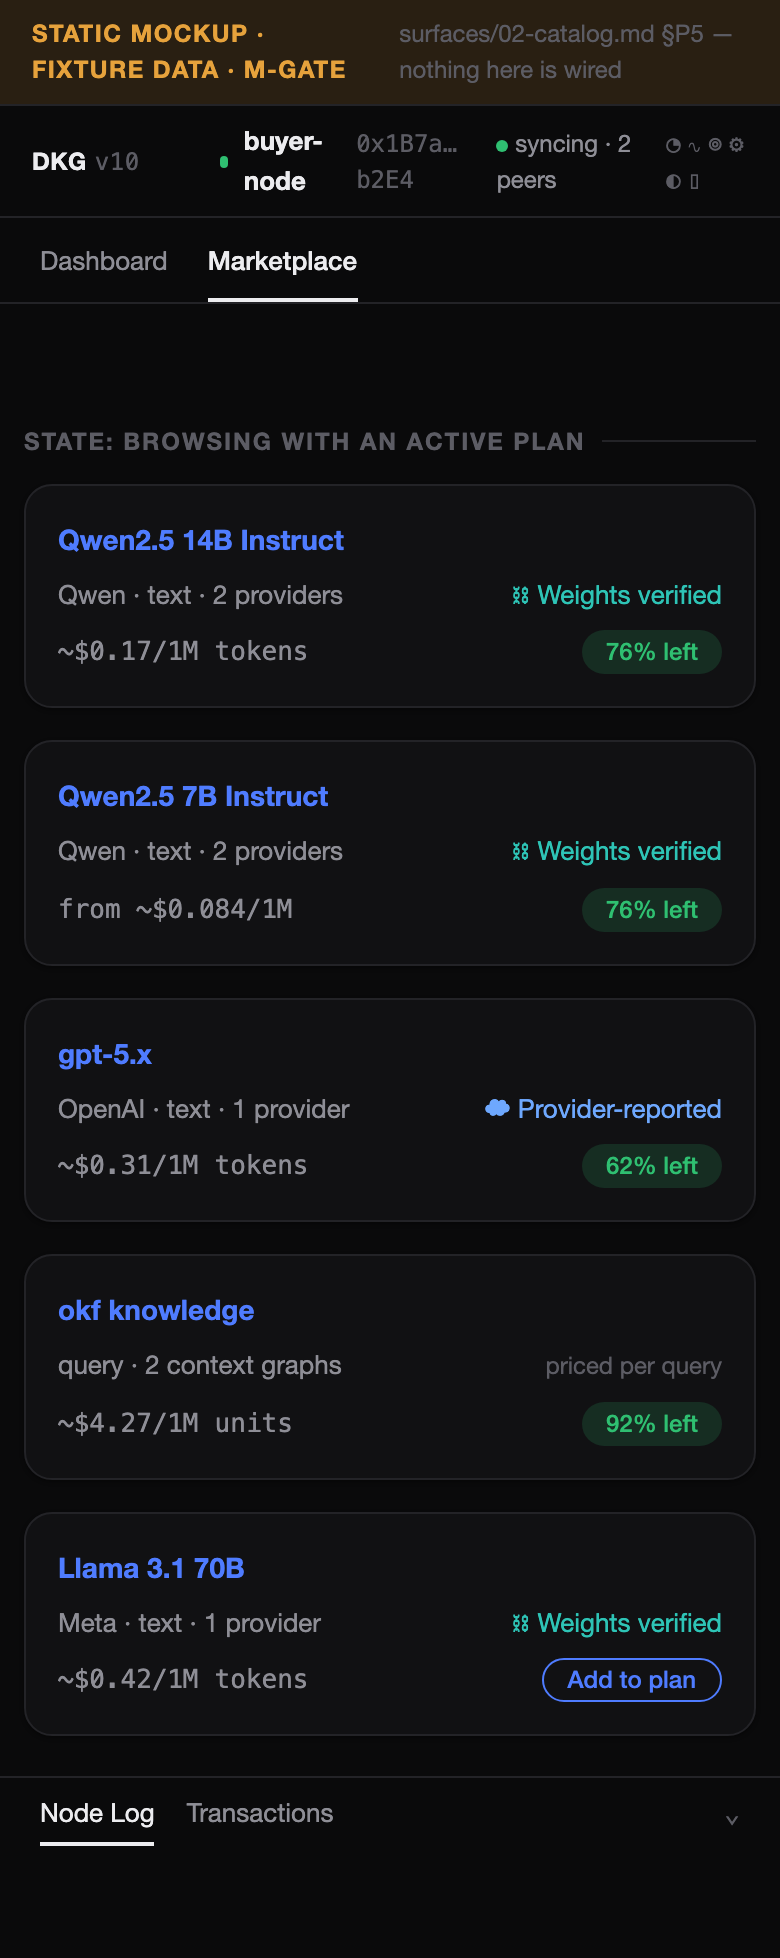
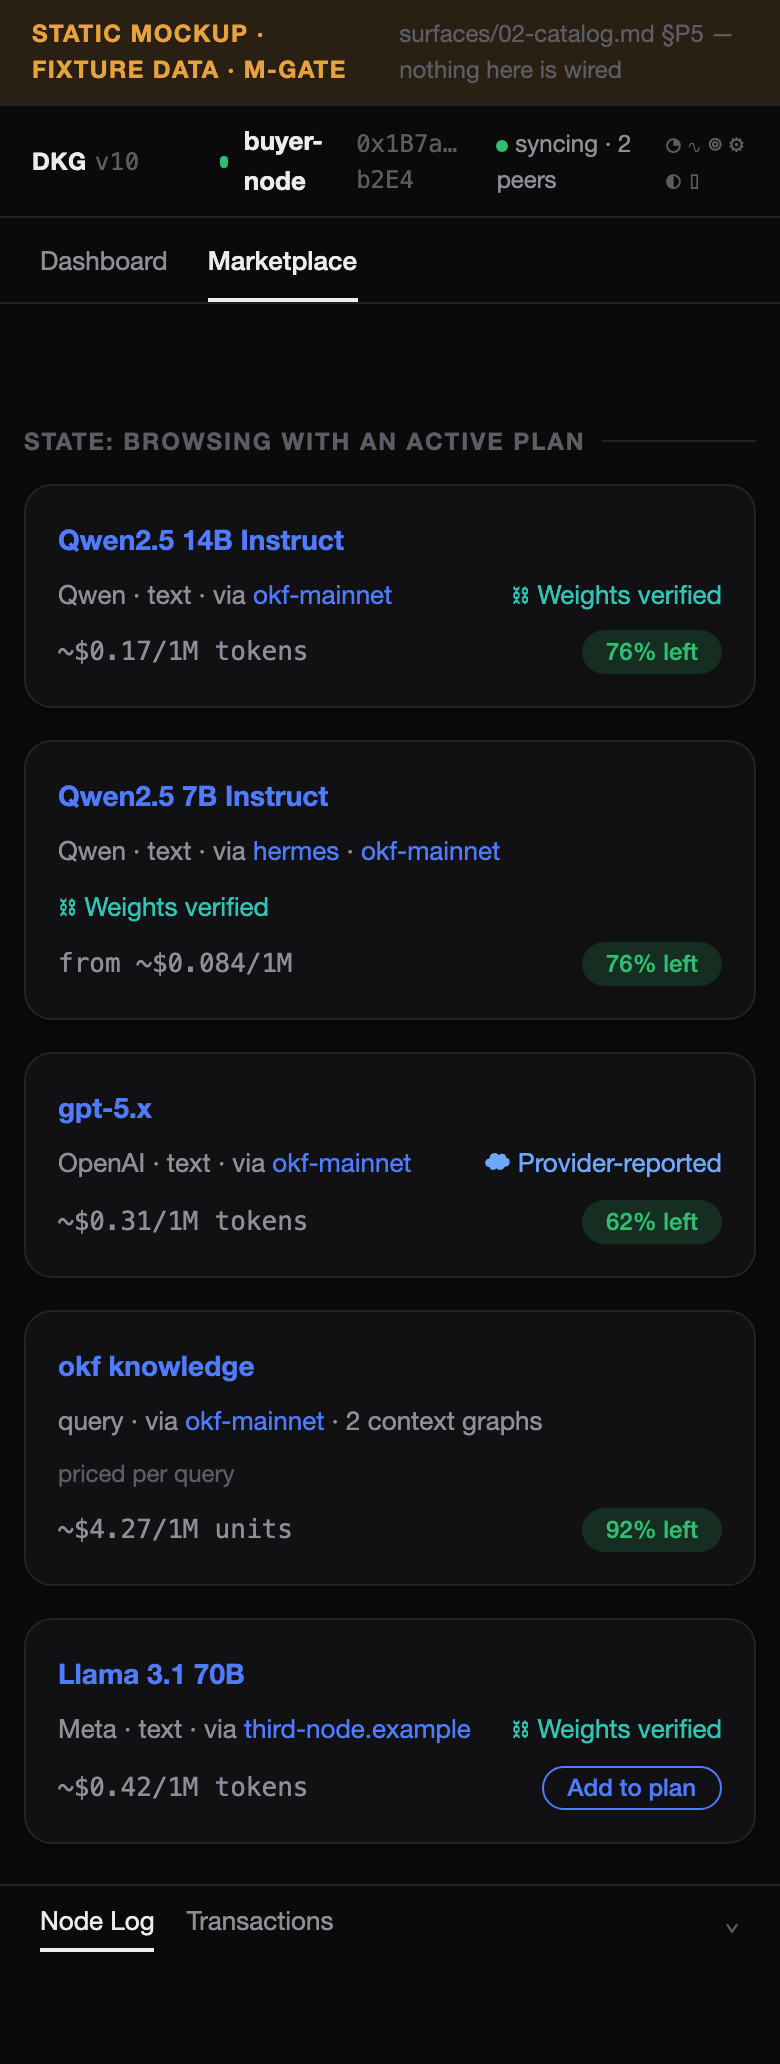
P5 CP-R round 8: catalog cards name their serving node(s), linked to storefronts
Claude-Session: https://claude.ai/code/session_01JiTT3xcuesA55AyqxVU4c1

diff --git a/docs/ui-spec/mockups/p5/03-catalog-subscribed.html b/docs/ui-spec/mockups/p5/03-catalog-subscribed.html
@@ -36,19 +36,19 @@
   <div class="state-label">state: browsing with an active plan</div>
   <div class="grid">
     <div class="card mcard"><h3><a href="04-model-page-covered.html">Qwen2.5 14B Instruct</a></h3>
-      <div class="row"><span class="sec">Qwen · text · 2 providers</span><span style="color:var(--prov-pinned)">⛓ Weights verified</span></div>
+      <div class="row"><span class="sec">Qwen · text · via <a href="07-storefront.html">okf-mainnet</a></span><span style="color:var(--prov-pinned)">⛓ Weights verified</span></div>
       <div class="row"><span class="mono sec">~$0.17/1M tokens</span><a class="chip chip--allow" href="05-plans-meters.html">76% left</a></div></div>
     <div class="card mcard"><h3><a href="04-model-page-covered.html">Qwen2.5 7B Instruct</a></h3>
-      <div class="row"><span class="sec">Qwen · text · 2 providers</span><span style="color:var(--prov-pinned)">⛓ Weights verified</span></div>
+      <div class="row"><span class="sec">Qwen · text · via <a href="07-storefront.html">hermes</a> · <a href="07-storefront.html">okf-mainnet</a></span><span style="color:var(--prov-pinned)">⛓ Weights verified</span></div>
       <div class="row"><span class="mono sec">from ~$0.084/1M</span><a class="chip chip--allow" href="05-plans-meters.html">76% left</a></div></div>
     <div class="card mcard"><h3><a href="04-model-page-covered.html">gpt-5.x</a></h3>
-      <div class="row"><span class="sec">OpenAI · text · 1 provider</span><span style="color:var(--prov-claimed)">☁ Provider-reported</span></div>
+      <div class="row"><span class="sec">OpenAI · text · via <a href="07-storefront.html">okf-mainnet</a></span><span style="color:var(--prov-claimed)">☁ Provider-reported</span></div>
       <div class="row"><span class="mono sec">~$0.31/1M tokens</span><a class="chip chip--allow" href="05-plans-meters.html">62% left</a></div></div>
     <div class="card mcard"><h3><a href="07-storefront.html">okf knowledge</a></h3>
-      <div class="row"><span class="sec">query · 2 context graphs</span><span class="muted xs">priced per query</span></div>
+      <div class="row"><span class="sec">query · via <a href="07-storefront.html">okf-mainnet</a> · 2 context graphs</span><span class="muted xs">priced per query</span></div>
       <div class="row"><span class="mono sec">~$4.27/1M units</span><a class="chip chip--allow" href="05-plans-meters.html">92% left</a></div></div>
     <div class="card mcard"><h3><a href="04-model-page-covered.html">Llama 3.1 70B</a></h3>
-      <div class="row"><span class="sec">Meta · text · 1 provider</span><span style="color:var(--prov-pinned)">⛓ Weights verified</span></div>
+      <div class="row"><span class="sec">Meta · text · via <a href="07-storefront.html">third-node.example</a></span><span style="color:var(--prov-pinned)">⛓ Weights verified</span></div>
       <div class="row"><span class="mono sec">~$0.42/1M tokens</span><a class="chip chip--add" href="02-plan-composer.html">Add to plan</a></div></div>
   </div>
 </div></div>

diff --git a/docs/ui-spec/shots/2026-08-25-p5-mgate/critique.md b/docs/ui-spec/shots/2026-08-25-p5-mgate/critique.md
@@ -64,3 +64,7 @@ two-line consent with sequential transfers now exists only in the composer,
 labeled as the explicitly-composed case, with the note that nothing
 subscribes to a second seller implicitly. Model-page footnote states adding
 a provider adds exactly that one seller. Re-shot; verified 01 desktop.
+
+**Round 8:** catalog cards were missing the serving node — added "via
+<node>" lines on all five cards (inference and query), each name linking to
+the node storefront; 14B corrected to its actual single provider.
